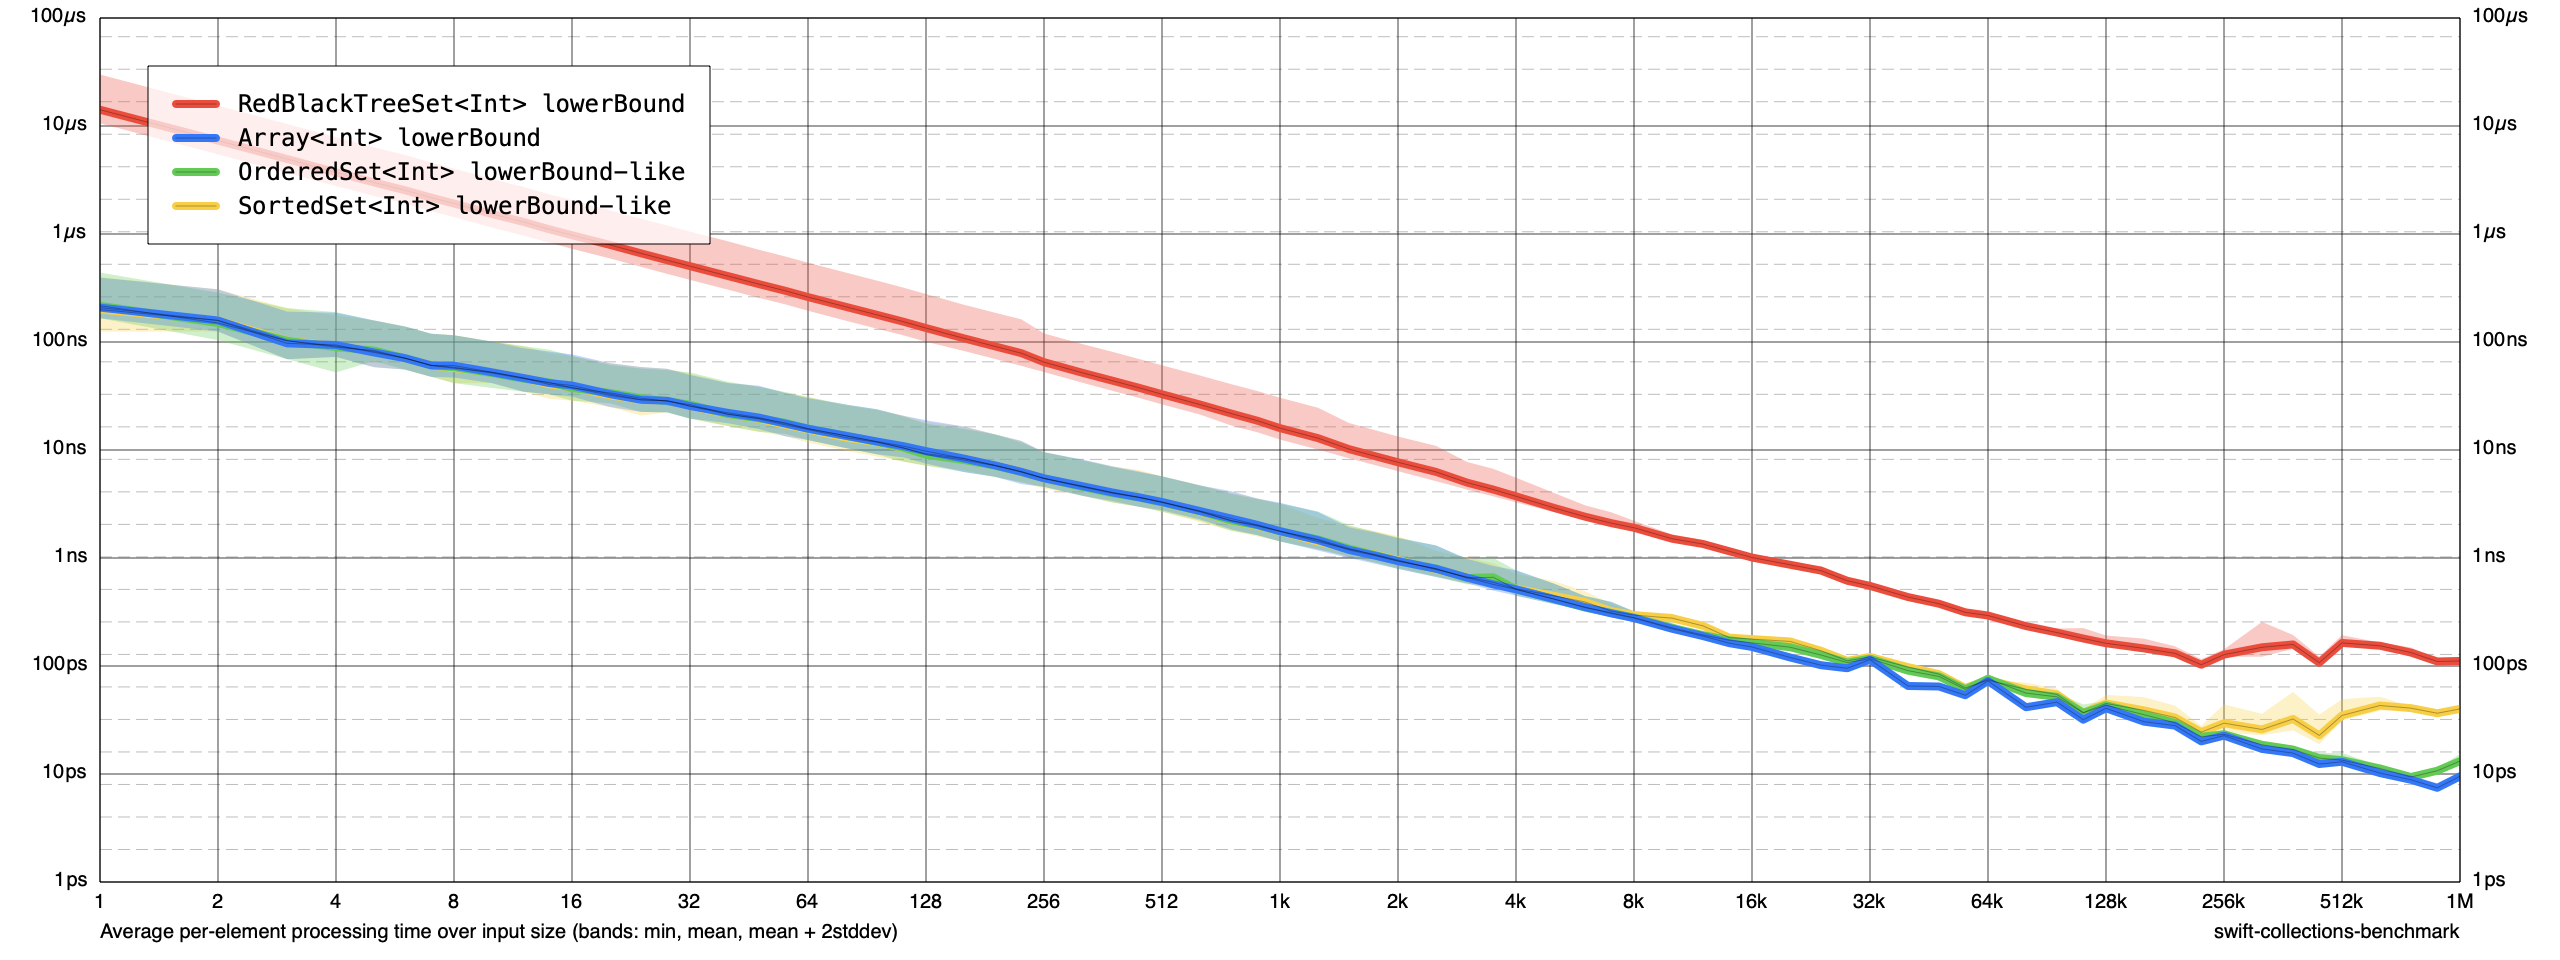
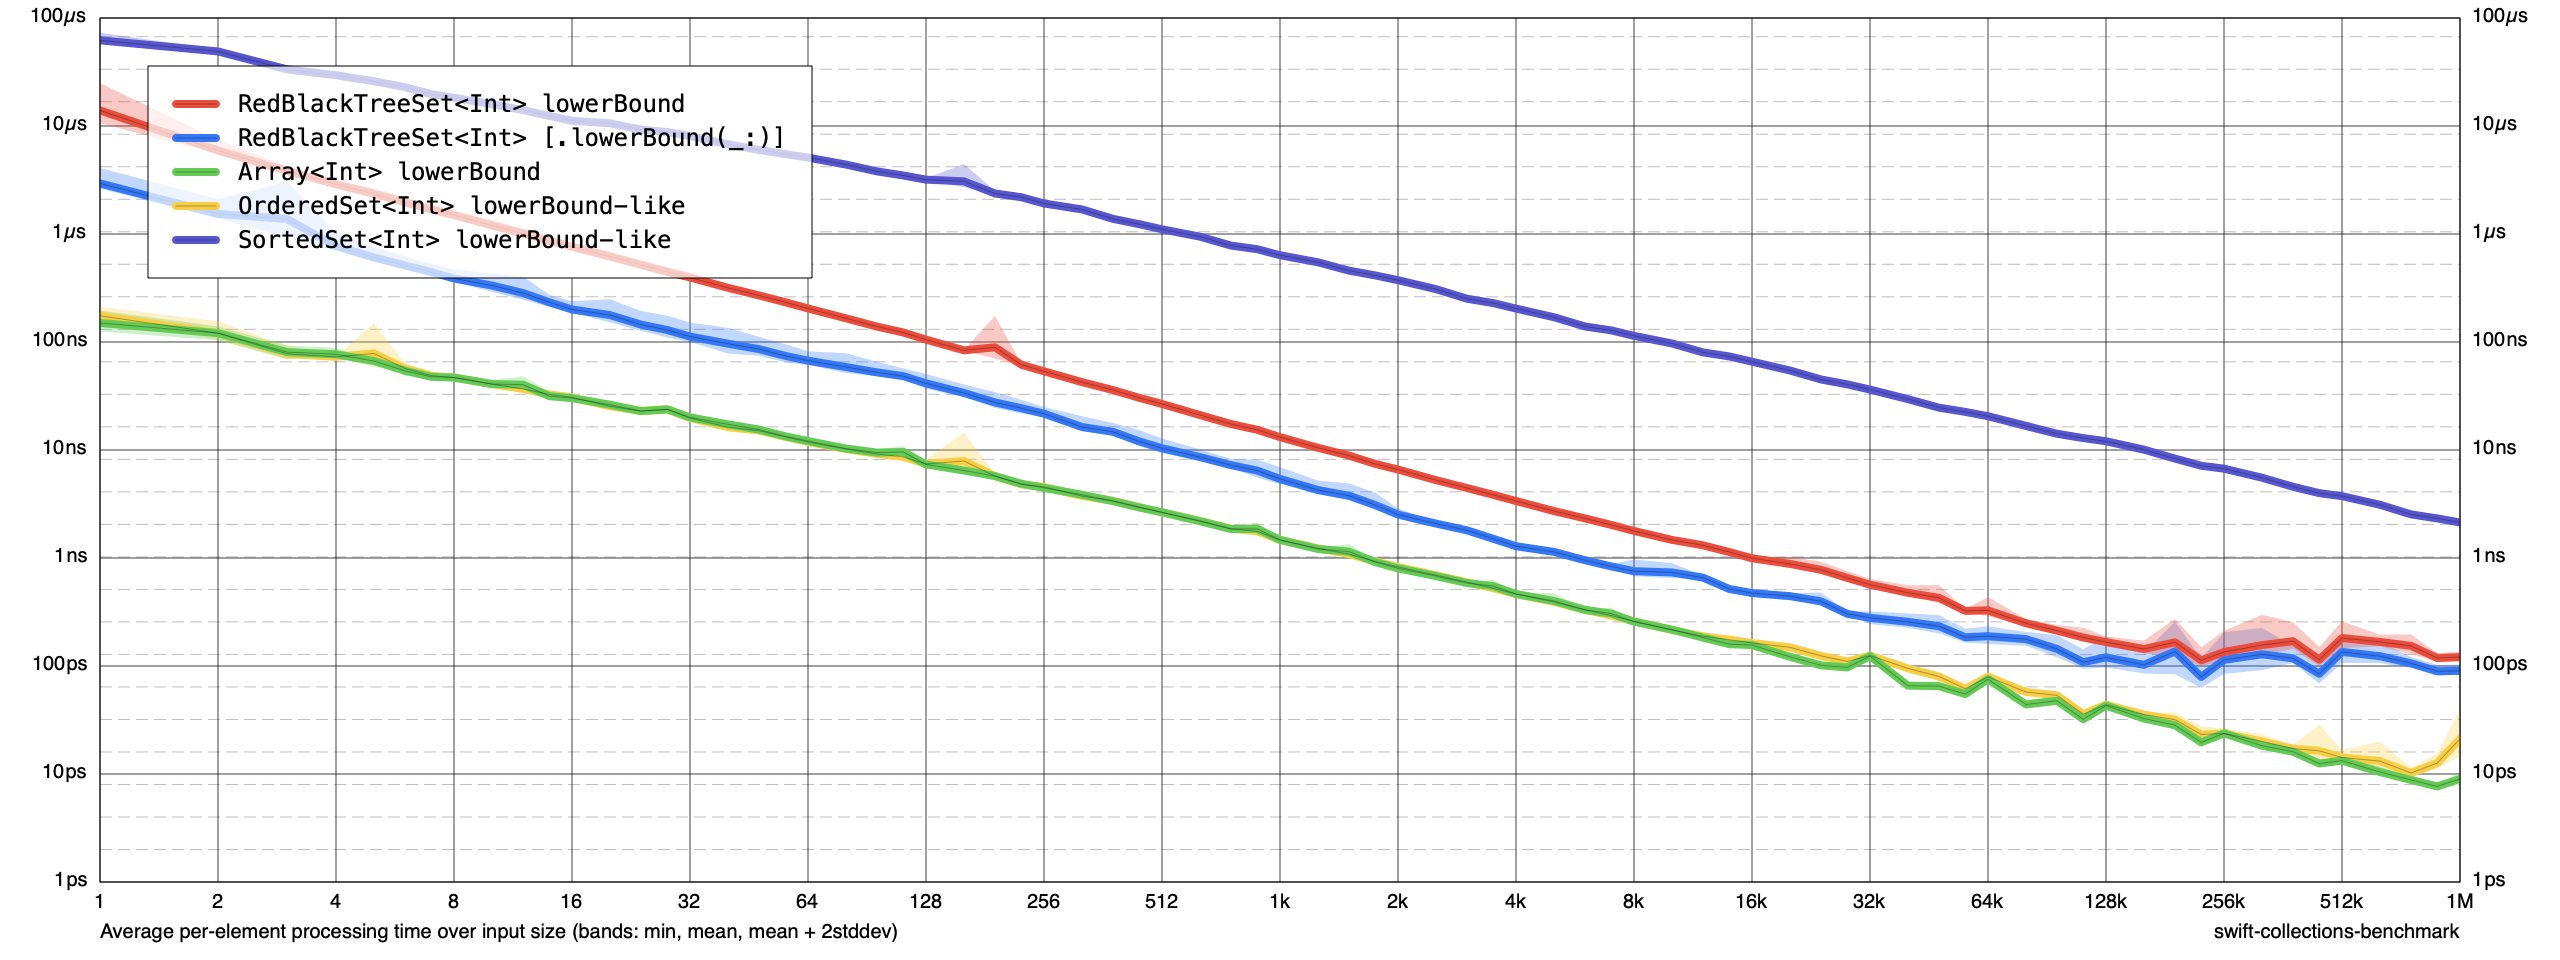
benchmark

diff --git a/Tests/CollectionBenchmarks/CollectionBenchmark14/main.swift b/Tests/CollectionBenchmarks/CollectionBenchmark14/main.swift
@@ -1,0 +1,203 @@
+import Collections
+import CollectionsBenchmark
+import RedBlackTreeModule
+import SortedCollections
+
+var benchmark = Benchmark(title: "insert + lowerBound Benchmark")
+
+func makeValues(_ size: Int) -> [Int] {
+  guard size > 0 else { return [] }
+
+  var values = Array(0..<size)
+
+  // Deterministic shuffle.
+  for i in values.indices {
+    let j = (i &* 9973 &+ 12345) % size
+    values.swapAt(i, j)
+  }
+
+  return values
+}
+
+func makeTargets(_ size: Int) -> [Int] {
+  let size = max(size, 1)
+  return (0..<size).map { ($0 &* 7919 &+ 104729) % size }
+}
+
+// MARK: - RedBlackTreeSet
+
+benchmark.add(
+  title: "RedBlackTreeSet<Int> insert + lowerBound",
+  input: Int.self
+) { size in
+
+  return { timer in
+
+    let values = makeValues(size)
+    let targets = makeTargets(size)
+
+    timer.measure {
+
+      var set = RedBlackTreeSet<Int>()
+      var sum = 0
+
+      for i in values.indices {
+        set.insert(values[i])
+
+        let index = set.lowerBound(targets[i])
+
+        if index != set.endIndex {
+          sum &+= 1
+        }
+      }
+
+      blackHole(sum)
+      blackHole(set)
+    }
+  }
+}
+
+benchmark.add(
+  title: "RedBlackTreeSet<Int> insert + [.lowerBound(_:)]",
+  input: Int.self
+) { size in
+
+  return { timer in
+
+    let values = makeValues(size)
+    let targets = makeTargets(size)
+
+    timer.measure {
+
+      var set = RedBlackTreeSet<Int>()
+      var sum = 0
+
+      for i in values.indices {
+        _ = set.insert(values[i])
+
+        _ = set[.lowerBound(targets[i])]
+        sum &+= 1
+      }
+
+      blackHole(sum)
+      blackHole(set)
+    }
+  }
+}
+
+// MARK: - Array
+
+benchmark.add(
+  title: "Array<Int> sortedInsert + lowerBound",
+  input: Int.self
+) { size in
+
+  return { timer in
+
+    let values = makeValues(size)
+    let targets = makeTargets(size)
+
+    timer.measure {
+
+      var array: [Int] = []
+      array.reserveCapacity(size)
+
+      var sum = 0
+
+      for i in values.indices {
+        let value = values[i]
+
+        // insertion lowerBound
+        var low = 0
+        var high = array.count
+
+        while low < high {
+          let mid = (low + high) >> 1
+
+          if array[mid] < value {
+            low = mid + 1
+          } else {
+            high = mid
+          }
+        }
+
+        array.insert(value, at: low)
+
+        // query lowerBound
+        low = 0
+        high = array.count
+
+        let target = targets[i]
+
+        while low < high {
+          let mid = (low + high) >> 1
+
+          if array[mid] < target {
+            low = mid + 1
+          } else {
+            high = mid
+          }
+        }
+
+        if low != array.count {
+          sum &+= 1
+        }
+      }
+
+      blackHole(sum)
+      blackHole(array)
+    }
+  }
+}
+
+// MARK: - SortedSet
+
+benchmark.add(
+  title: "SortedSet<Int> insert + lowerBound-like",
+  input: Int.self
+) { size in
+
+  return { timer in
+
+    let values = makeValues(size)
+    let targets = makeTargets(size)
+
+    timer.measure {
+
+      var set = SortedSet<Int>()
+      var sum = 0
+
+      for i in values.indices {
+        set.insert(values[i])
+
+        let target = targets[i]
+
+        var low = set.startIndex
+        var high = set.endIndex
+
+        while low != high {
+          let d = set.distance(from: low, to: high)
+          let mid = set.index(low, offsetBy: d >> 1)
+
+          if set[mid] < target {
+            low = set.index(after: mid)
+          } else {
+            high = mid
+          }
+        }
+
+        if low != set.endIndex {
+          sum &+= 1
+        }
+      }
+
+      blackHole(sum)
+      blackHole(set)
+    }
+  }
+}
+
+benchmark.main()
+
+// swift run -c release CollectionBenchmark14 run results14 --cycles 5
+// swift run -c release CollectionBenchmark14 render results14 chart.insert.lowerBound.png

diff --git a/Tests/CollectionBenchmarks/CollectionBenchmark12/main.swift b/Tests/CollectionBenchmarks/CollectionBenchmark12/main.swift
@@ -61,8 +61,7 @@ benchmark.add(
       var sum = 0
 
       for target in targets {
-        let num = set[.lowerBound(target)]
-
+        _ = set[.lowerBound(target)]
         sum += 1
       }
 
@@ -70,6 +69,7 @@ benchmark.add(
     }
   }
 }
+
 // MARK: - Array
 
 benchmark.add(
@@ -165,27 +165,27 @@ benchmark.add(
     let targets = makeTargets(size)
 
     let set = SortedSet(values)
-    let array = Array(set)
 
     timer.measure {
 
       var sum = 0
 
       for target in targets {
-        var low = 0
-        var high = array.count
+        var low = set.startIndex
+        var high = set.endIndex
 
-        while low < high {
-          let mid = (low + high) >> 1
+        while low != high {
+          let distance = set.distance(from: low, to: high)
+          let mid = set.index(low, offsetBy: distance >> 1)
 
-          if array[mid] < target {
-            low = mid + 1
+          if set[mid] < target {
+            low = set.index(after: mid)
           } else {
             high = mid
           }
         }
 
-        if low != array.count {
+        if low != set.endIndex {
           sum += 1
         }
       }

diff --git a/Package.swift b/Package.swift
@@ -18,7 +18,7 @@ var defines: [String] = [
   //  "ALLOCATION_DRILL" // リリース時はオフ
   //  "USE_C_MALLOC",
   //  "USE_INT128", // これはpackage traitにしたい
-  //  "COLLECTION_BENCHMARK",
+    "COLLECTION_BENCHMARK",
 ]
 
 var _settings: [SwiftSetting] =
@@ -58,7 +58,7 @@ let platforms: [SupportedPlatform]? =
 
 let collectionBenchmarks: [Target] =
   defines.contains("COLLECTION_BENCHMARK")
-  ? (0...13).map { i in
+  ? (0...14).map { i in
     .executableTarget(
       name: "CollectionBenchmark\(i)",
       dependencies: [
